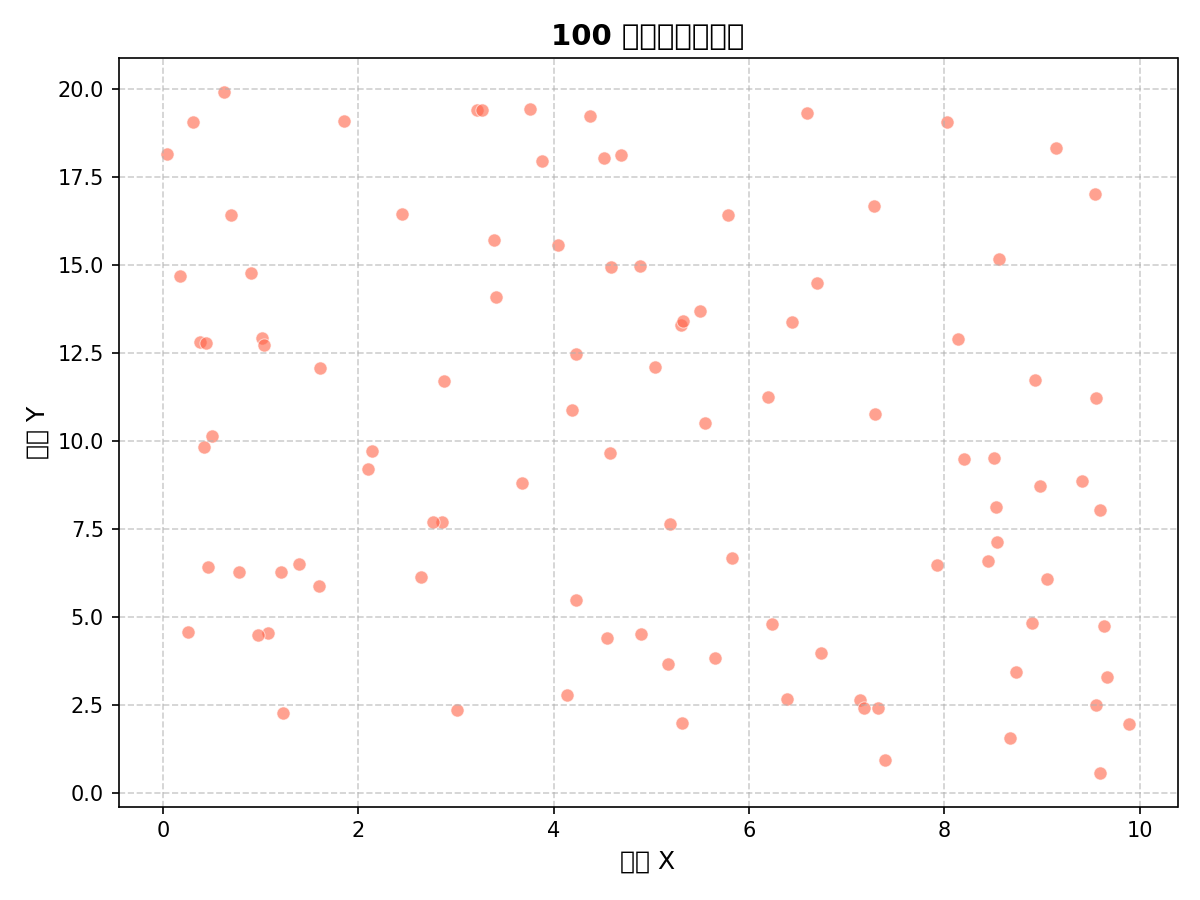
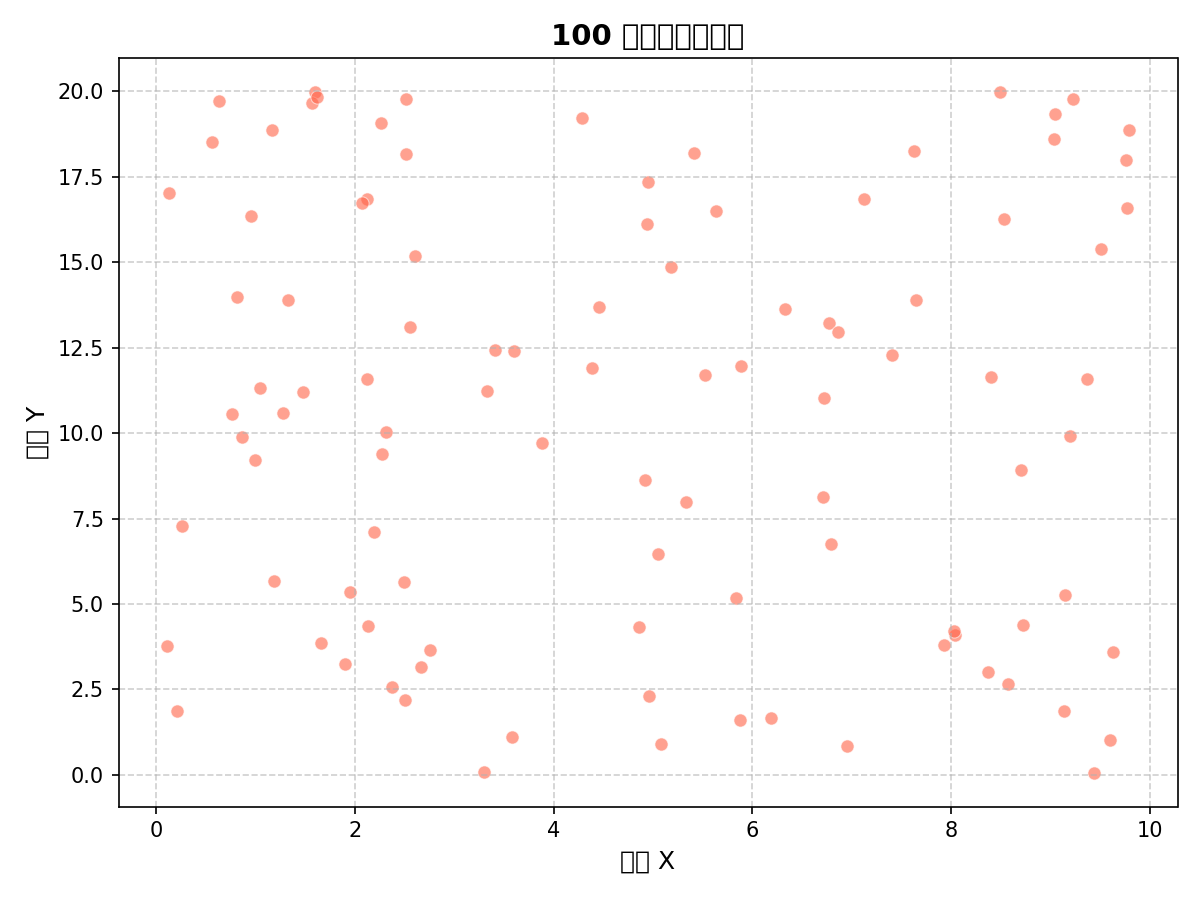
2

diff --git a/test_client.py b/test_client.py
@@ -65,6 +65,80 @@ def test_scatter_validation():
     return resp.status_code == 400
 
 
+def test_scatter_large_random():
+    url = 'http://localhost:5000/scatter'
+    n = 100000
+    data = {
+        'x': [random.uniform(0, 100) for _ in range(n)],
+        'y': [random.uniform(0, 100) for _ in range(n)],
+        'title': '10万点随机采样',
+        'xlabel': 'X',
+        'ylabel': 'Y',
+        'max_points': 5000,
+        'sample_method': 'random'
+    }
+    import time
+    start = time.time()
+    resp = requests.post(url, json=data)
+    elapsed = time.time() - start
+    print(f'大数据量 (random采样): {resp.status_code}, 耗时={elapsed:.2f}s')
+    if resp.status_code == 200:
+        print(f'  X-Sampled: {resp.headers.get("X-Sampled")}')
+        print(f'  X-Original-Count: {resp.headers.get("X-Original-Count")}')
+        print(f'  X-Sampled-Count: {resp.headers.get("X-Sampled-Count")}')
+        with open('scatter_large_random.png', 'wb') as f:
+            f.write(resp.content)
+        print('  已保存到 scatter_large_random.png')
+        return True
+    else:
+        print(f'  错误: {resp.json()}')
+        return False
+
+
+def test_scatter_large_equidistant():
+    url = 'http://localhost:5000/scatter'
+    n = 50000
+    data = {
+        'x': [i * 0.001 for i in range(n)],
+        'y': [i * 0.001 + random.uniform(-0.5, 0.5) for i in range(n)],
+        'title': '5万点等距采样',
+        'xlabel': 'X',
+        'ylabel': 'Y',
+        'max_points': 3000,
+        'sample_method': 'equidistant'
+    }
+    import time
+    start = time.time()
+    resp = requests.post(url, json=data)
+    elapsed = time.time() - start
+    print(f'大数据量 (equidistant采样): {resp.status_code}, 耗时={elapsed:.2f}s')
+    if resp.status_code == 200:
+        print(f'  X-Sampled: {resp.headers.get("X-Sampled")}')
+        print(f'  X-Original-Count: {resp.headers.get("X-Original-Count")}')
+        print(f'  X-Sampled-Count: {resp.headers.get("X-Sampled-Count")}')
+        with open('scatter_large_equidistant.png', 'wb') as f:
+            f.write(resp.content)
+        print('  已保存到 scatter_large_equidistant.png')
+        return True
+    else:
+        print(f'  错误: {resp.json()}')
+        return False
+
+
+def test_scatter_small_no_sampling():
+    url = 'http://localhost:5000/scatter'
+    data = {
+        'x': list(range(50)),
+        'y': [random.uniform(0, 10) for _ in range(50)],
+        'title': '小数据不采样',
+        'max_points': 5000,
+        'sample_method': 'random'
+    }
+    resp = requests.post(url, json=data)
+    print(f'小数据量 (无采样): {resp.status_code}, X-Sampled={resp.headers.get("X-Sampled", "未采样")}')
+    return resp.status_code == 200
+
+
 if __name__ == '__main__':
     print('=' * 50)
     print('开始测试散点图服务...')
@@ -78,6 +152,12 @@ if __name__ == '__main__':
         test_scatter_random()
         print()
         test_scatter_validation()
+        print()
+        test_scatter_small_no_sampling()
+        print()
+        test_scatter_large_random()
+        print()
+        test_scatter_large_equidistant()
         print()
         print('=' * 50)
         print('测试完成！')

diff --git a/app.py b/app.py
@@ -7,6 +7,26 @@ from flask import Flask, request, jsonify, send_file
 
 app = Flask(__name__)
 
+DEFAULT_MAX_POINTS = 5000
+VALID_SAMPLE_METHODS = ('random', 'equidistant', 'first')
+
+
+def sample_data(x_np, y_np, max_points, method):
+    n = len(x_np)
+    if n <= max_points:
+        return x_np, y_np, False
+
+    if method == 'random':
+        rng = np.random.default_rng()
+        indices = rng.choice(n, size=max_points, replace=False)
+        indices.sort()
+    elif method == 'equidistant':
+        indices = np.linspace(0, n - 1, max_points, dtype=int)
+    else:
+        indices = np.arange(max_points)
+
+    return x_np[indices], y_np[indices], True
+
 
 @app.route('/scatter', methods=['POST'])
 def generate_scatter():
@@ -44,12 +64,24 @@ def generate_scatter():
         size = data.get('size', 50)
         alpha = data.get('alpha', 0.7)
         dpi = data.get('dpi', 100)
+        max_points = data.get('max_points', DEFAULT_MAX_POINTS)
+        sample_method = data.get('sample_method', 'random')
+
+        if not isinstance(max_points, int) or max_points < 1:
+            return jsonify({'error': '"max_points" 必须为正整数'}), 400
+
+        if sample_method not in VALID_SAMPLE_METHODS:
+            return jsonify({'error': f'"sample_method" 必须为 {VALID_SAMPLE_METHODS} 之一'}), 400
+
+        original_count = len(x_np)
+        x_plot, y_plot, sampled = sample_data(x_np, y_np, max_points, sample_method)
 
         fig, ax = plt.subplots(figsize=(8, 6))
-        ax.scatter(x_np, y_np, c=color, s=size, alpha=alpha, edgecolors='white', linewidth=0.5)
+        ax.scatter(x_plot, y_plot, c=color, s=size, alpha=alpha, edgecolors='white', linewidth=0.5)
         ax.set_xlabel(xlabel, fontsize=12)
         ax.set_ylabel(ylabel, fontsize=12)
-        ax.set_title(title, fontsize=14, fontweight='bold')
+        title_display = f'{title}' if not sampled else f'{title}（采样 {len(x_plot)}/{original_count}）'
+        ax.set_title(title_display, fontsize=14, fontweight='bold')
         ax.grid(True, linestyle='--', alpha=0.6)
         fig.tight_layout()
 
@@ -58,7 +90,12 @@ def generate_scatter():
         buf.seek(0)
         plt.close(fig)
 
-        return send_file(buf, mimetype='image/png')
+        response = send_file(buf, mimetype='image/png')
+        if sampled:
+            response.headers['X-Sampled'] = 'true'
+            response.headers['X-Original-Count'] = str(original_count)
+            response.headers['X-Sampled-Count'] = str(len(x_plot))
+        return response
 
     except Exception as e:
         return jsonify({'error': f'服务器内部错误: {str(e)}'}), 500